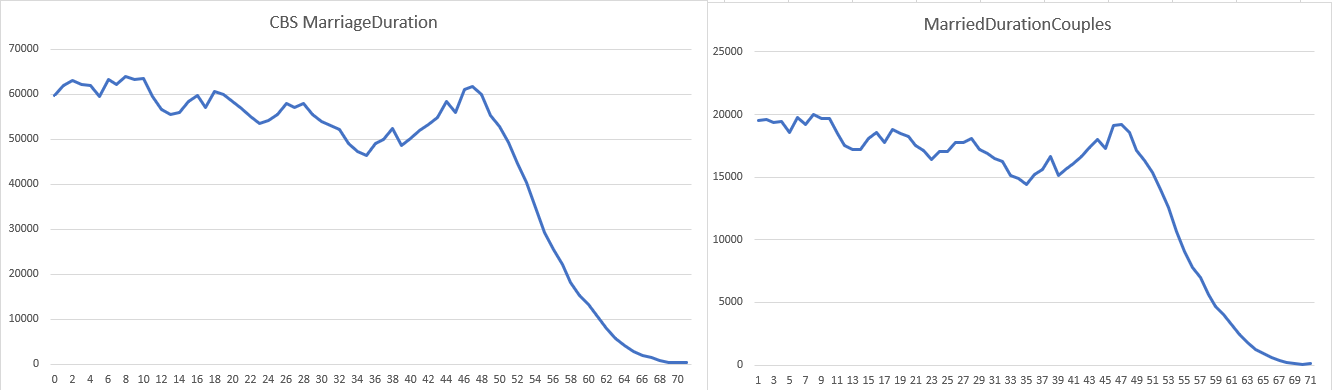
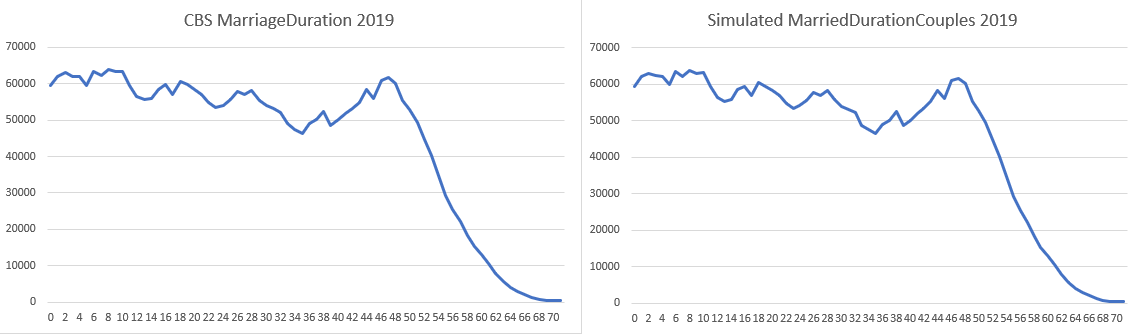
Marital Duration Changes, Visual and Functional(new test amount of citizens)

diff --git a/src/Vs.Simulation.Core.Tests/MaritalDurationTest.cs b/src/Vs.Simulation.Core.Tests/MaritalDurationTest.cs
@@ -27,11 +27,11 @@ namespace Vs.Simulation.Core.Tests
             var coupleList = new List<double>();
 
             //Act
-            for (int i = 0; i < 1000000; i++) 
+            for (int i = 0; i < 3217582; i++) 
             {
                 coupleList.Add(env.RandChoice(MaritalDuration.DurationSource, MaritalDuration.DurationWeights));
             }
-            for (double i = 1; i < 72; i++) {
+            for (double i = 0; i < 72; i++) {
                 collection.Add(new MaritalDurationProbability()
                 {
                     Duration = i,
@@ -43,11 +43,11 @@ namespace Vs.Simulation.Core.Tests
 
             //Assert
             int actualDuration5 = coupleList.Where(d => d == 5).Count();
-            int expectedDuration5 = 18577;
+            int expectedDuration5 = 59944;
             int actualDuration54 = coupleList.Where(d => d == 54).Count();
-            int expectedDuration54 = 10693;
+            int expectedDuration54 = 34631;
             int actualDuration31 = coupleList.Where(d => d == 31).Count();
-            int expectedDuration31 = 16488;
+            int expectedDuration31 = 53246;
 
             Assert.Equal(expectedDuration5, actualDuration5);
             Assert.Equal(expectedDuration31, actualDuration31);
